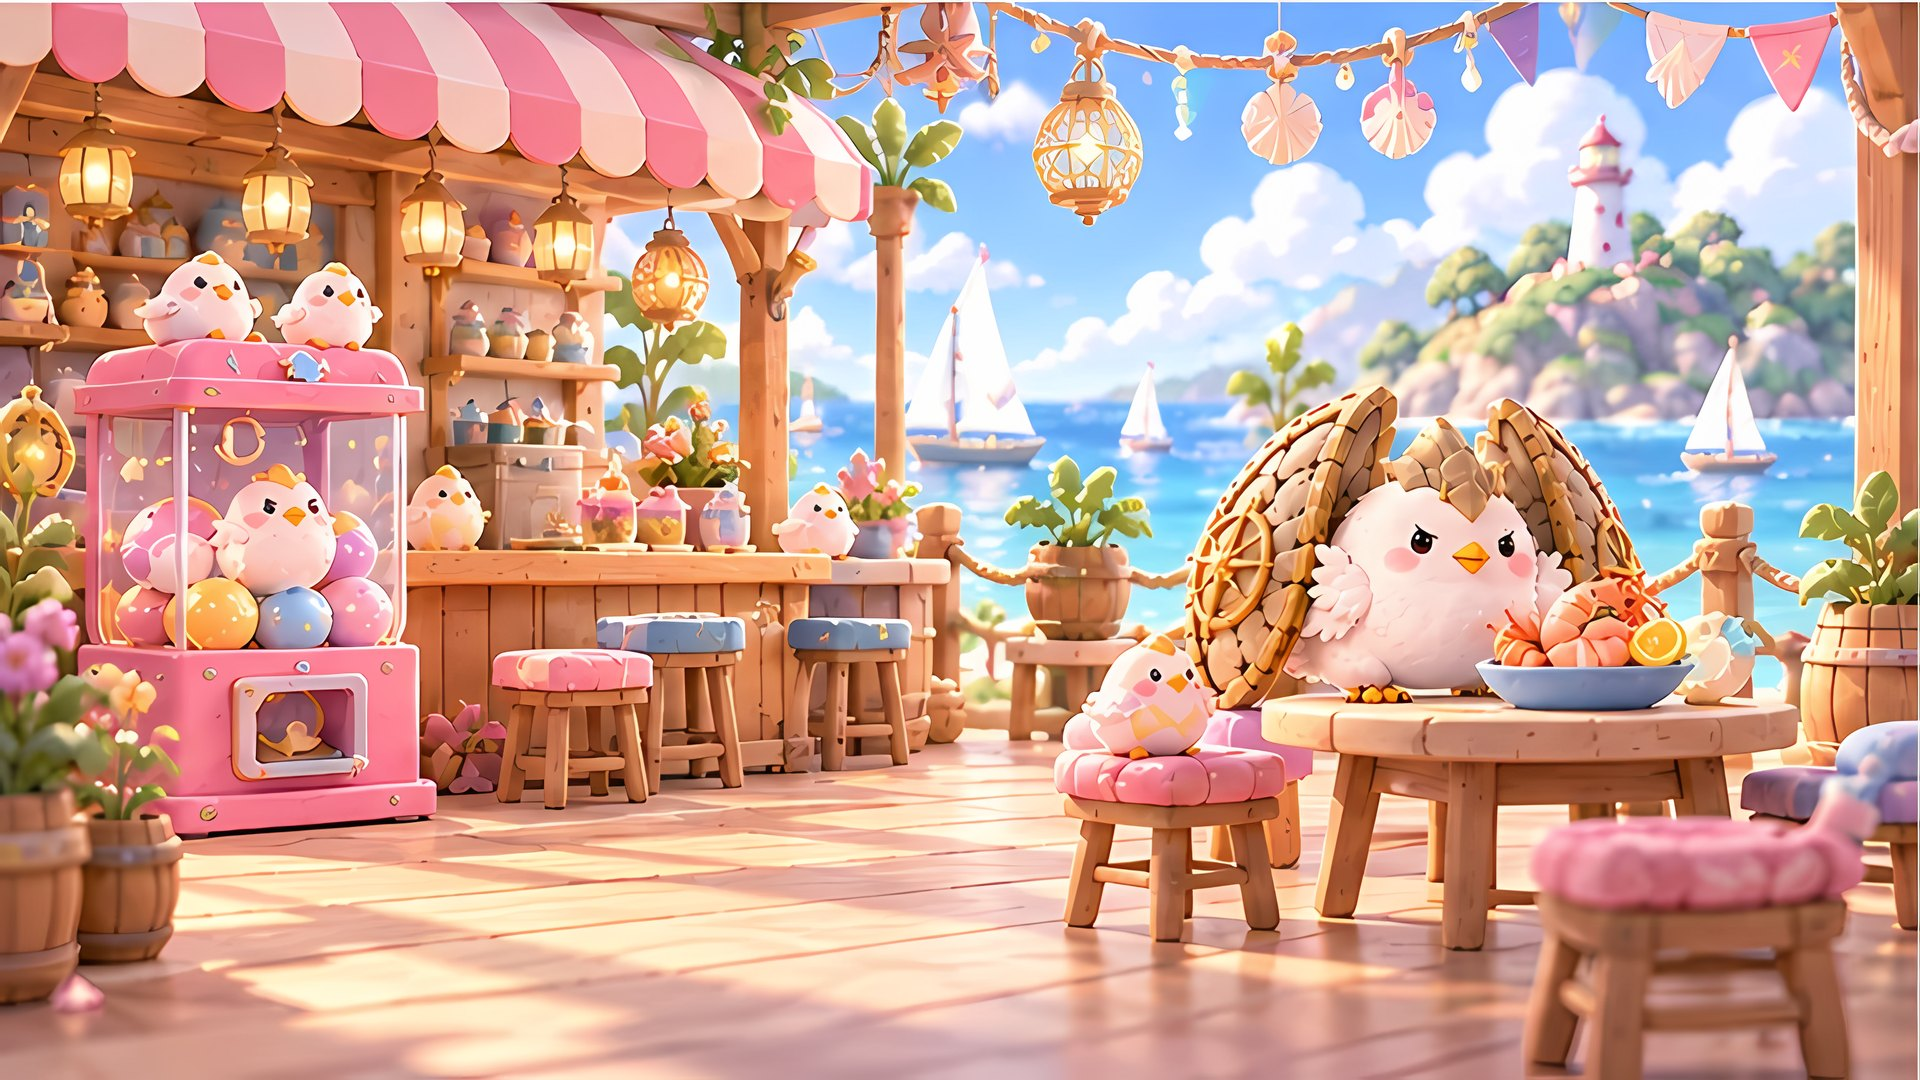
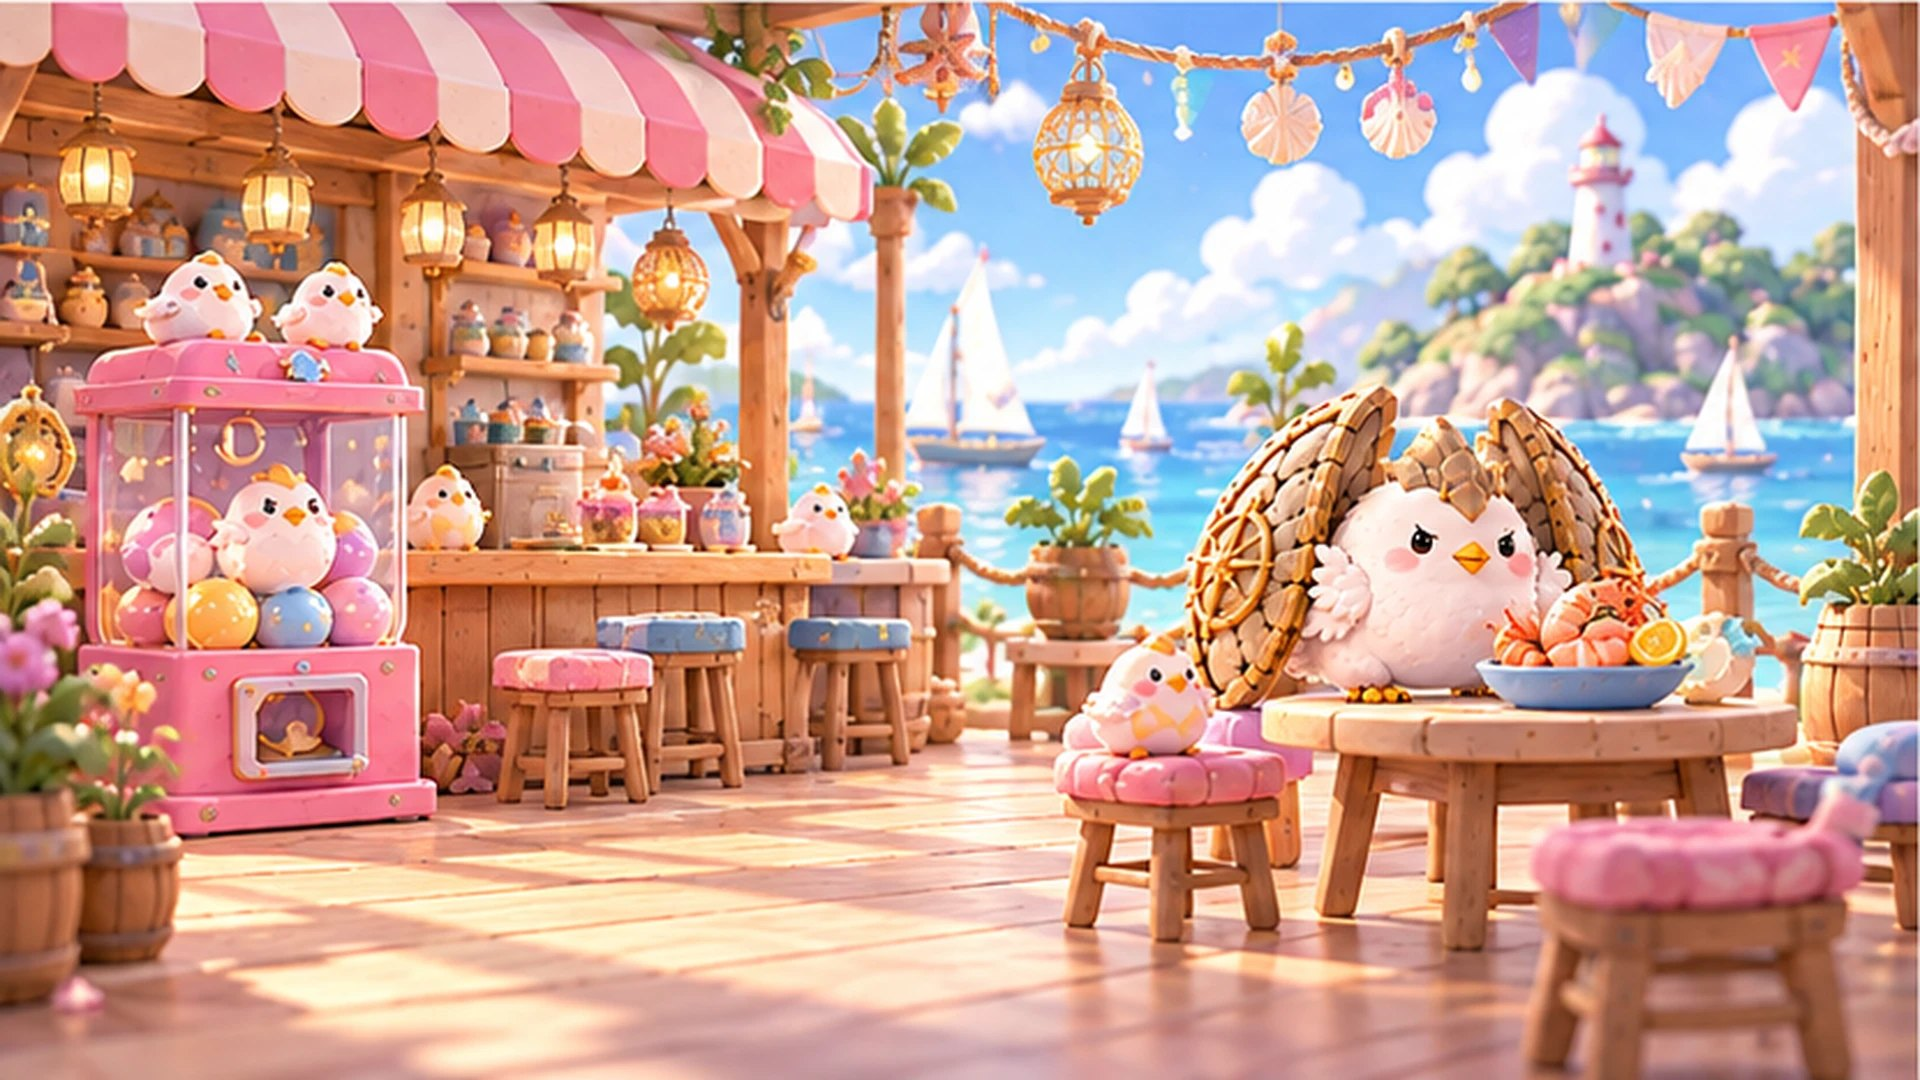
v0.12.1 배경 4장을 받은 원본(1920×1080)으로 교체
- AI 확대본 대신 원본 그대로, prep-v8.py는 작은 그림만 확대
- 앱 1.0.33(versionCode 34)

Claude-Session: https://claude.ai/code/session_01WSF9SsDYkJcYrkcxTs43oM

diff --git a/galmaegiman-confirmed/test/game.integration.test.ts b/galmaegiman-confirmed/test/game.integration.test.ts
@@ -1351,7 +1351,7 @@ suite('격리 SQLite 실제 트랜잭션 (v0.3)',()=>{
     const selected=(response:any)=>response.template.outputs.find((output:any)=>output.listCard).listCard.items[0];
     const firstButton=(response:any)=>response.template.outputs.find((output:any)=>output.carousel).carousel.items[0].buttons[0];
     try{
-      expect((await app.inject({method:'GET',url:'/health'})).json()).toMatchObject({edition:'GALMAEMI_118',version:'0.12.0'});
+      expect((await app.inject({method:'GET',url:'/health'})).json()).toMatchObject({edition:'GALMAEMI_118',version:'0.12.1'});
       for(const f of ['m-draw.jpg','ticket.jpg','gacha-MID.jpg','C1.jpg','s-oops.jpg','s-info.jpg','unknown.jpg'])expect((await app.inject({method:'GET',url:`/thumbs/${f}`})).statusCode).toBe(200);
       for(const f of ['X99.jpg','secret.jpg','..%2Fenv.jpg'])expect((await app.inject({method:'GET',url:`/thumbs/${f}`})).statusCode).toBe(404);
       await request('하급뽑기 2');

diff --git a/galmaegiman-confirmed/src/app.ts b/galmaegiman-confirmed/src/app.ts
@@ -14,7 +14,7 @@ import { registerWeb } from './web.js';
 import { battleRoster } from './battle/prototype.js';
 import { registerDuel } from './duel.js';
 import { registerMy, type KakaoLogin } from './my.js';
-export const VERSION='0.12.0';
+export const VERSION='0.12.1';
 export interface AppOptions {secret:string;botId?:string;log?:boolean;baseUrl:()=>Promise<string>;root?:string;kakaoLogin?:KakaoLogin;fetch?:typeof fetch;reviewCode?:string}
 export async function buildApp(db:PrismaClient,game:GameService,options:AppOptions){
   if(options.secret.length<32)throw new Error('SKILL_SECRET을 최소 32자로 설정하세요.');

diff --git a/galmaegiman-confirmed/scripts/prep-v8.py b/galmaegiman-confirmed/scripts/prep-v8.py
@@ -1,5 +1,5 @@
 # 8번 디자인 소스(art/ref/v8) → 게임에 쓰는 파일
-#  - 배경 4장(830×466으로 받음): AI 업스케일(Real-ESRGAN animevideov3 ×4) 뒤 1920×1080 → public/battle/bg/<이름>.jpg
+#  - 배경 4장: 1920 넓이 원본이면 그대로 1920×1080(v0.12.1부터 원본 받음), 작으면 AI 업스케일(Real-ESRGAN animevideov3 ×4) 뒤 → public/battle/bg/<이름>.jpg
 #  - 메뉴 버튼 시트(투명, 4개 가로): 덩어리마다 잘라 높이 180px → public/battle/icons/btn-<메뉴>.png
 # 사용: VK_ICD_FILENAMES=/usr/share/vulkan/icd.d/lvp_icd.json python3 -I scripts/prep-v8.py
 import os
@@ -8,11 +8,15 @@ from PIL import Image
 from scipy import ndimage
 root = os.path.dirname(os.path.dirname(os.path.abspath(__file__)))
 ref = os.path.join(root, 'art/ref/v8')
-from realesrgan_ncnn_py import Realesrgan
-model = Realesrgan(gpuid=0, model=3)
+model = None
 for n in ['attic', 'cafe', 'greenhouse', 'cabin']:
     im = Image.open(os.path.join(ref, f'bg_{n}.webp')).convert('RGB')
-    out = model.process_pil(im).resize((1920, 1080), Image.LANCZOS)
+    if im.width < 1900:
+        if model is None:
+            from realesrgan_ncnn_py import Realesrgan
+            model = Realesrgan(gpuid=0, model=3)
+        im = model.process_pil(im)
+    out = im.resize((1920, 1080), Image.LANCZOS)
     out.save(os.path.join(root, f'public/battle/bg/{n}.jpg'), quality=86, optimize=True, progressive=True); print(n, out.size, flush=True)
 sheet = Image.open(os.path.join(ref, 'menu_buttons4.webp')).convert('RGBA'); a = np.array(sheet)[:, :, 3] > 20
 lab, k = ndimage.label(ndimage.binary_closing(a, iterations=3)); sl = sorted(ndimage.find_objects(lab), key=lambda s: s[1].start)

diff --git a/galmaegiman-confirmed/docs/V0.3-DEPLOY.md b/galmaegiman-confirmed/docs/V0.3-DEPLOY.md
@@ -975,3 +975,8 @@ DB 반영 단계에서 새 유닛 3종이 추가만 됨(기존 유닛·플레이
 - 「갈매미」 묶음 이름 → 「수비대」(팻말과 같게).
 - 앱 1.0.32.
 `"version":"0.12.0"` 확인.
+
+## v0.12.1 배경 4장 원본(1920×1080)으로 교체 (DB 변경 없음)
+- 사용자가 1920×1080 원본을 줘서 AI 확대본 대신 원본을 그대로 씀(scripts/prep-v8.py는 1900px 미만일 때만 확대).
+- 앱 1.0.33.
+`"version":"0.12.1"` 확인.
